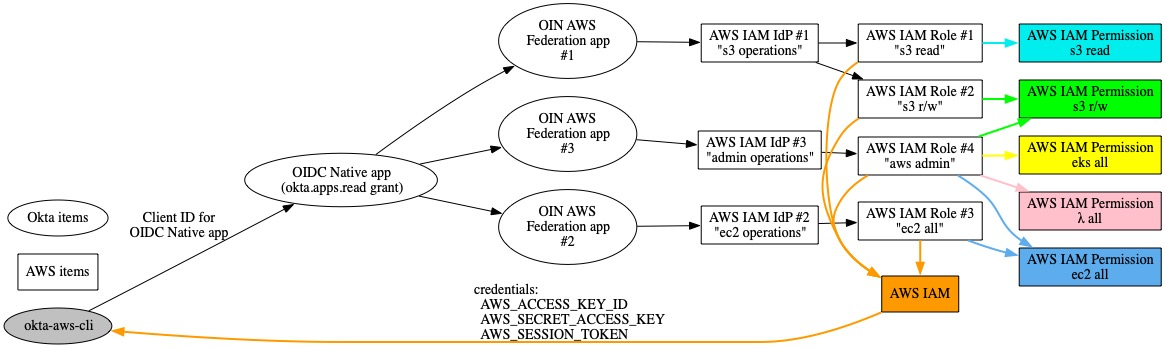
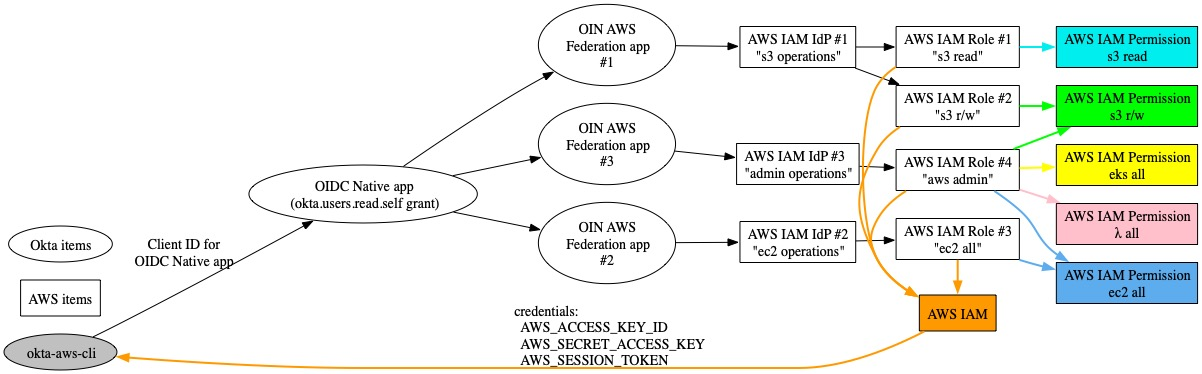
Removing references to admin-only grant `okta.apps.read`

diff --git a/README.md b/README.md
@@ -43,7 +43,6 @@ format.
  - [Web Command](#web-command)
    - [Web Command Requirements](#web-command-requirements)
      - [Multiple AWS environments](#multiple-aws-environments)
-     - [Non-Admin Users](#non-admin-users)
  - [M2M Command](#m2m-command)
    - [M2M Command Requirements](#m2m-command-requirements)
  - [List-Profiles Command](#list-profiles-command)
@@ -66,7 +65,7 @@ format.
 
 | Command | Description |
 |-----|-----|
-| (empty) | When `okta-aws-cli` is executed without a subcommand **and** without arguments it will print the online help and exit. With arguments it defaults to the `web` command. |
+| (empty) | When executed without a subcommand **and** without arguments `okta-aws-cli` will print the online help and exit. With arguments it defaults to the `web` command. |
 | `web` | Human oriented retrieval of temporary IAM credentials through Okta authentication and device authorization. |
 | `m2m` | Machine/headless oriented retrieval of temporary IAM credentials through Okta authentication with a private key. **IMPORTANT!** This a not a feature intended for a human use case. Be sure to use industry state of the art secrets management techniques with the private key. |
 | `list-profiles` | Lists profile names in ~/.okta/okta.yaml. |
@@ -115,7 +114,8 @@ The `Session Token` has a default expiry of 60 minutes.
 
 **IMPORTANT!** The Okta AWS Federation Application does not work in a headless
 environment; it only operates with a human performing authorization in a web
-browser.
+browser for an elevated security posture combining device authorization with
+human authentication.
 
 ### Web Command Requirements
 
@@ -131,12 +131,12 @@ Authorization` , and `Token Exchange`. These settings are in the Okta Admin UI
 at `Applications > [the OIDC app] > General Settings > Grant type`.
 
 If [Multiple AWS environments](#multiple-aws-environments) (alleviates the need
-for use of the `--aws-acct-fed-app-id` argument) are to be supported by
-a single OIDC application, the OIDC app must have the `okta.apps.read` grant
-for admin users and `okta.users.read.self` for non-admin users. Application
-grants are configured at `Applications > [the OIDC app] > Okta API Scopes` in
-the Okta Admin UI.
- 
+for use of the `--aws-acct-fed-app-id` argument) are to be supported by a single
+OIDC application, the OIDC app must have the `okta.users.read.self` grant to
+inspect which AWS Fed apps have been linked to the user. Application grants are
+configured at `Applications > [the OIDC app] > Okta API Scopes` in the Okta
+Admin UI.
+
 The pairing with the AWS Federation Application is achieved in the Fed app's
 Sign On Settings. These settings are in the Okta Admin UI at `Applications > [the
 AWS Fed app] > Sign On`. There are two values that need to be set on the Sign On
@@ -158,10 +158,11 @@ URL below. Then follow the directions in that wizard.
 #### Multiple AWS environments
 
 To support multiple AWS environments, associate additional AWS Federation
-applications with an OIDC app. The OIDC app **must** have the `okta.apps.read`
-grant to support admin users. To support non-admin users the OIDC app **must**
-have the `okta.users.read.self` grant. The following is an illustration of the
-association of objects that make up this kind of configuration.
+applications with an OIDC app.  The OIDC app **must** have the
+`okta.users.read.self` grant so that `okta-aws-cli` can inpsect the user's app
+links to see which AWS Fed apps have been assigned to them. The following is an
+illustration of the association of objects that make up this kind of
+configuration.
 
 ![okta-aws-cli supporting multiple AWS environments](./doc/multi-aws-environments.jpg)
 
@@ -172,41 +173,14 @@ The example diagram reflects the following:
 * Fed App #2 is linked to an IdP and Role dedicated to ec2 operations
 * Fed App #3 is oriented for an administrator is comprised of an IdP and Role with many different permissions
 
-##### Multiple AWS environments for Non-Admin Users
+##### Implementation details of multiple AWS environments
 
-The multiple AWS environments feature will work for non-admin users if the OIDC
-Native app is granted the`okta.users.read.self` scope and the user is assigned
-to the OIDC Native app and assigned to each Okta AWS Federation app.  The API
-endpoint `GET /api/v1/users/me/appLinks` is referenced to discover which
-applications are assigned to the non-admin user. The appLinks endpoint only
+Given the OIDC Native app is granted the`okta.users.read.self` scope and the
+user is assigned to the OIDC Native app and assigned to each Okta AWS Federation
+app. Then the API endpoint `GET /api/v1/users/me/appLinks` is referenced to
+discover which applications are assigned to the user. The appLinks endpoint only
 lists Okta AWS Federation apps that the user would be able to see in the user's
 Okta Console.
-
-**IMPORTANT!!!**
-
-Below is a deprecated recommendation for non-admin users. We are leaving it in
-the README for legacy purposes. We are no longer recommending this workaround so
-long as the OIDC app is granted the `okta.users.read.self` scope.
-
-**OLD work around for non-admin users**
-
-Multiple AWS environments requires extra configuration for non-admin users.
-Follow these steps to support non-admin users.
-
-1) Create a custom admin role with the only permission being "View application
-and their details", and a resource set constrained to "All AWS Account
-Federation apps".
-
-2) Create a group that will contain the AWS custom admin role users.
-
-3) Add a rule on the admin console authentication policy that denies access if
-the use is a member of the group from step 2.
-
-4) Assign non-admin users this custom role in step 1 and assign them to the
-group in step 2.
-
-The "Admin" button will be visible on the Okta dashboard of non-admin users but
-they will receive a 403 if they attempt to open the Admin UI.
 
 ## M2M Command
 
@@ -412,9 +386,8 @@ These global settings are optional unless marked otherwise:
 
 ### Web command settings
 
-If the OIDC Native App doesn't also have the `okta.apps.read` grant (for admin
-users) or the `okta.users.read.self` grant (for non-admin users) the client ID
-of the [Okta AWS
+If the OIDC Native App doesn't also have the `okta.users.read.self` grant the
+client ID of the [Okta AWS
 Federation](https://www.okta.com/integrations/aws-account-federation/)
 integration application is also required.
 
@@ -465,7 +438,7 @@ OKTA_AWSCLI_OIDC_CLIENT_ID=0oa5wyqjk6Wm148fE1d7
 
 #### Command line flags example
 
-##### OIDC client has `okta.apps.read` grant
+##### OIDC client has `okta.users.read.self` grant
 
 ```shell
 
@@ -473,7 +446,7 @@ $ okta-aws-cli web --org-domain my-org.okta.com \
     --oidc-client-id 0oa5wyqjk6Wm148fE1d7 \
 ```
 
-#### OIDC client **does not** have `okta.apps.read` grant (admins) or `okta.users.read.self` grant (non-admins)
+#### OIDC client **does not** have the `okta.users.read.self` grant
 ```shell
 
 $ okta-aws-cli web --org-domain my-org.okta.com \
